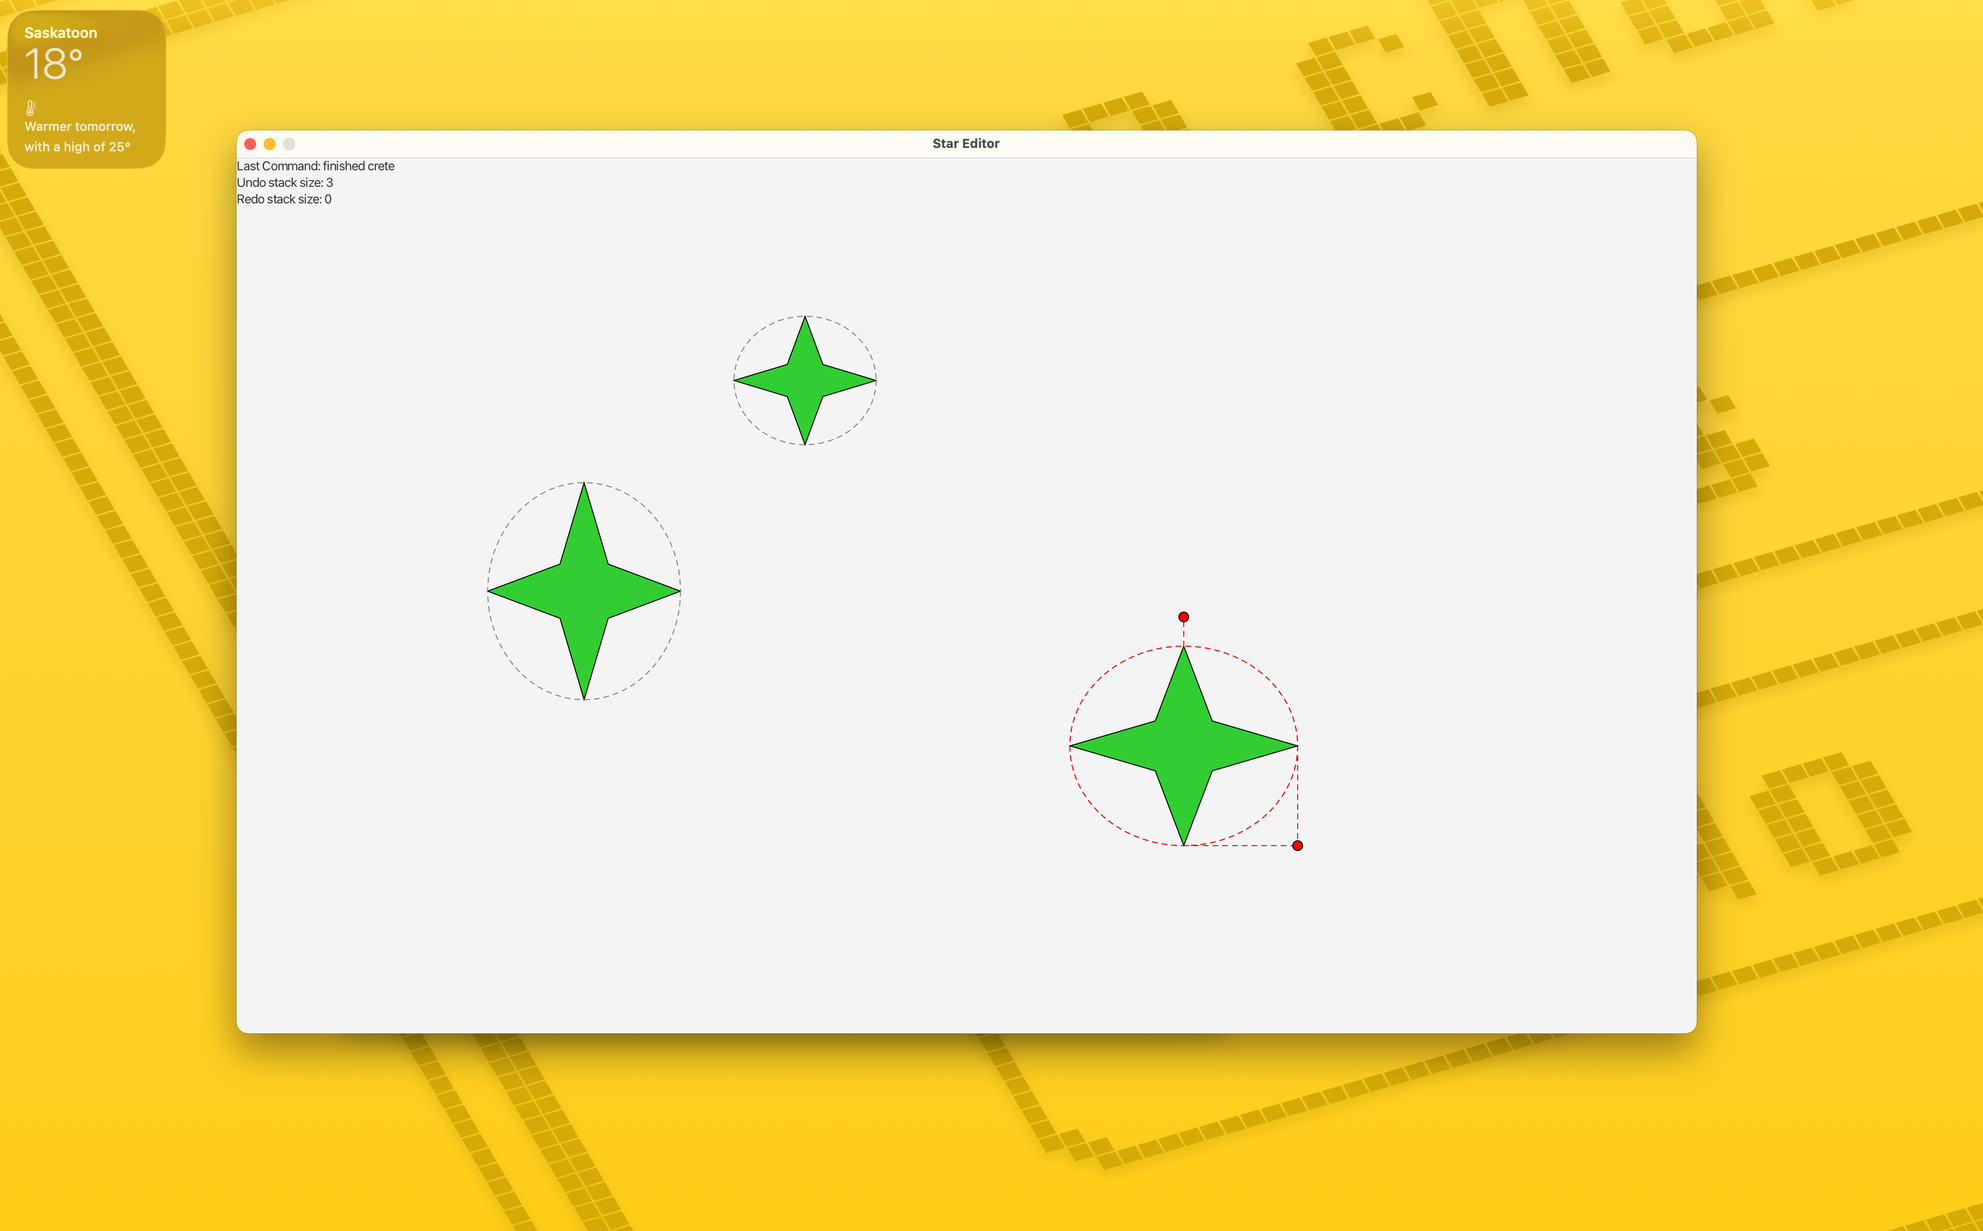
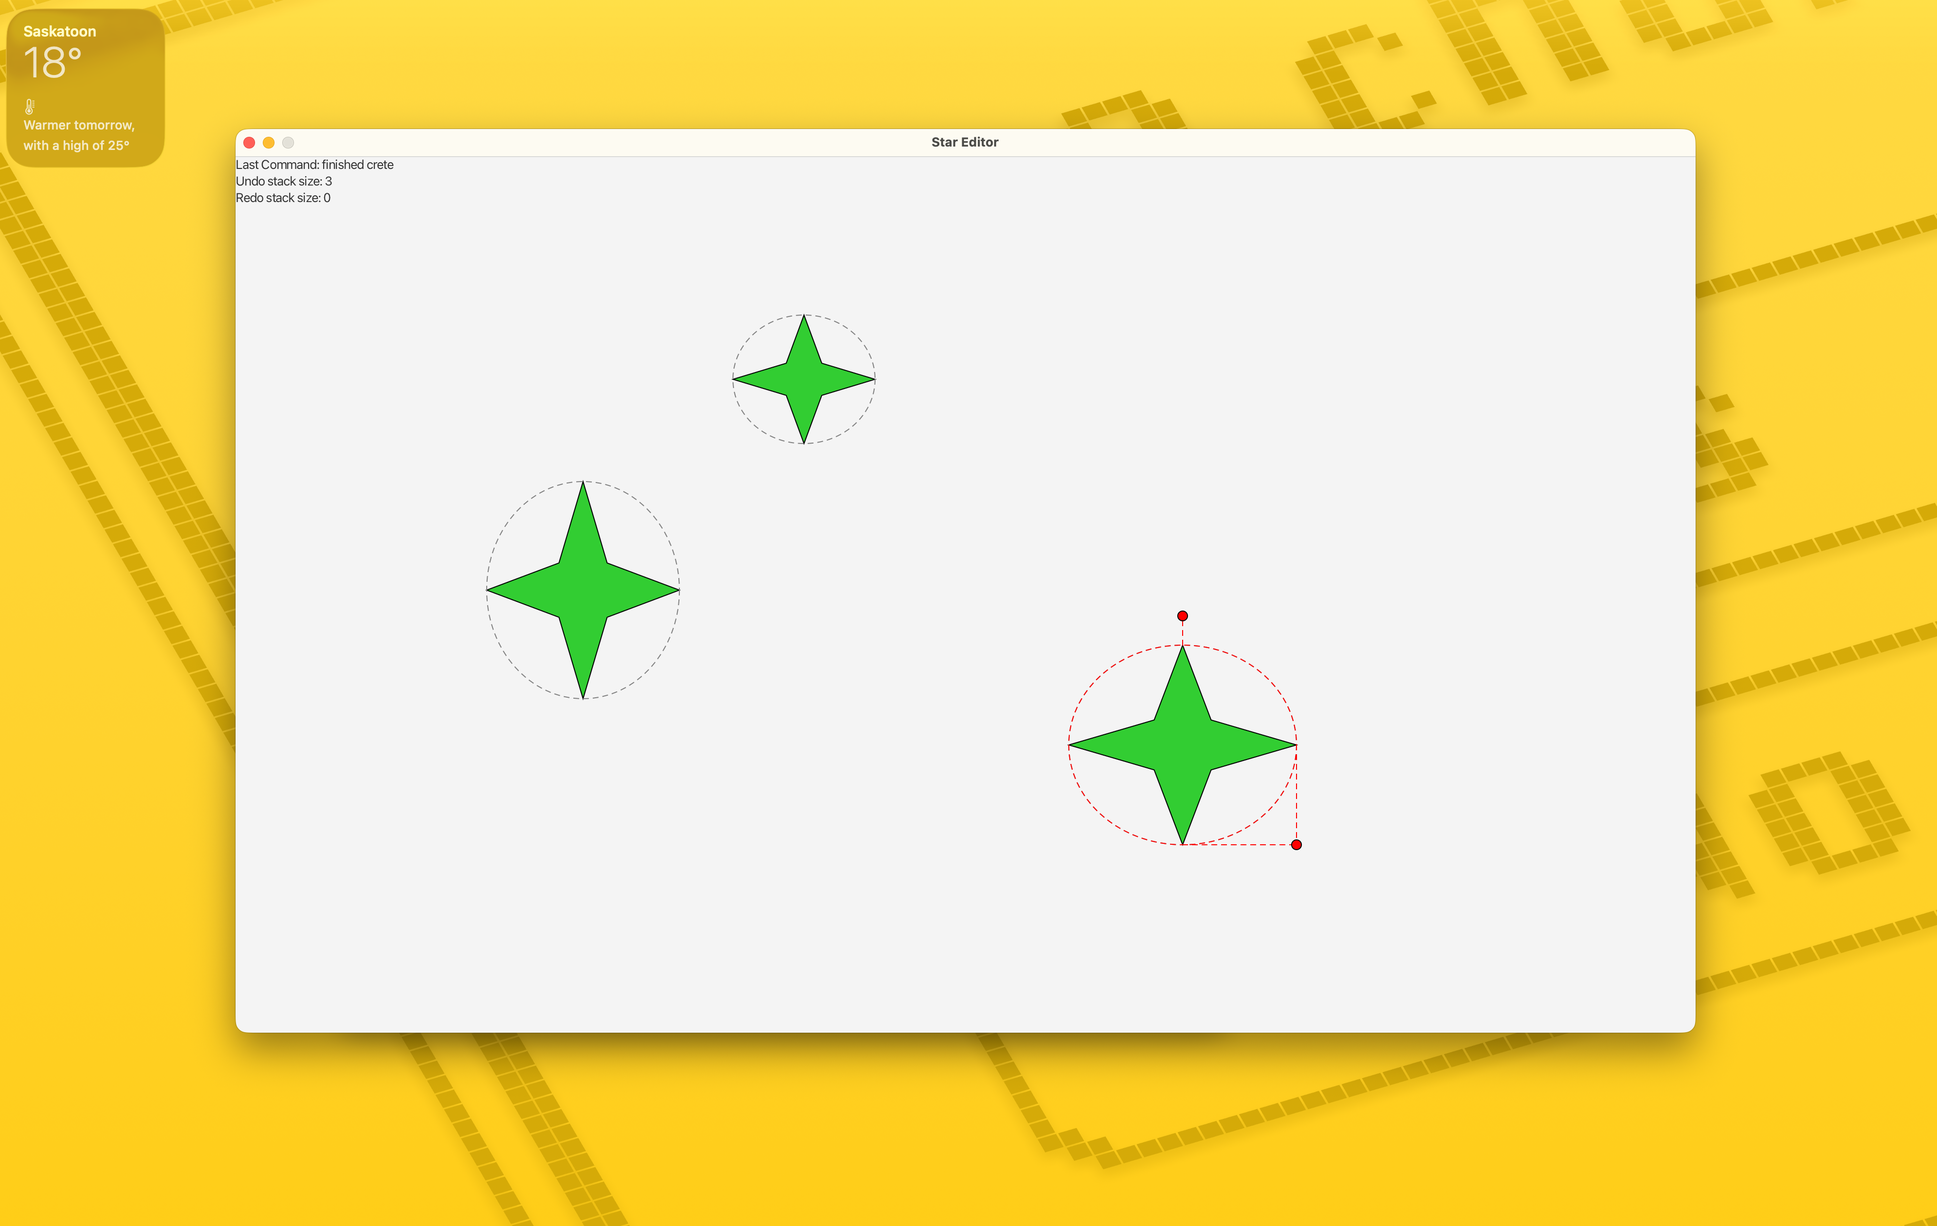
add cmpt353 a4 and qa project, change images and minor code

diff --git a/website/projects/cmpt353_qa.html b/website/projects/cmpt353_qa.html
@@ -32,7 +32,7 @@
     <div id="detail-topbar">
         <div class="container topbar-inner">
             <a id="back-btn" href="../index.html#work-section">← Back to Home</a>
-            <span id="detail-index">03 / 06</span>
+            <span id="detail-index">01 / 06</span>
         </div>
     </div>
 
@@ -42,14 +42,14 @@
             <div class="detail-header">
                 <!--title -->
                 <div>
-                    <p class="eyebrow" id="detail-tag">Interactive Creation, Handles, Multi-Select, Grouping, and Undo/Redo</p>
-                    <h1 id="detail-title">Interactive <em>Star Editor</em></em></h1>
+                    <p class="eyebrow" id="detail-tag">Full-Stack Channel-Based System</p>
+                    <h1 id="detail-title">Channel <em>Q&A Platform</em></h1>
                 </div>
                 <div id="detail-meta">
                     <!-- year -->
                     <div class="meta-row">
                         <span class="meta-label">Year</span>
-                        <span class="meta-value">2025</span>
+                        <span class="meta-value">2026</span>
                     </div>
                     <!-- role -->
                     <div class="meta-row">
@@ -59,17 +59,17 @@
                     <!-- tools -->
                     <div class="meta-row">
                         <span class="meta-label">Tools</span>
-                        <span class="meta-value">2D Transformations, IntelliJ IDEA, JavaFX, JavaFX Canvas, Model-View-Controller (MVC), State Machine Design</span>
+                        <span class="meta-value">Docker, MySQL, Next.js, App Router Architecture, Password Hashing, REST API, Session Authentication, TypeScript</span>
                     </div>
                     <!-- link -->
                     <div class="meta-row">
                         <span class="meta-label">Link</span>
-                        <span class="meta-value"><a href="https://github.com/tas199/cmpt381-2025-a4.git" target="_blank">GitHub ↗</a></span>
+                        <span class="meta-value"><a href="https://github.com/tas199/cmpt353-2025-qa.git" target="_blank">GitHub ↗</a></span>
                     </div>
                 </div>
             </div>
             <!-- cover -->
-            <img id="detail-cover" src="../images/cmpt381_a4/cover.png" alt="cover" />
+            <img id="detail-cover" src="../images/cmpt353_qa/cover.png" alt="cover" />
         </div>
     </section>
 
@@ -80,7 +80,7 @@
                 <div class="content-row">
                     <span class="content-row-label">Description</span>
                     <div class="content-row-text">
-                        <p>This project is an interactive <strong>star editor</strong> built with <strong>JavaFX</strong>, where users can <strong>draw stars by clicking and dragging, then move, resize, and rotate</strong> them using on-screen handles (kind of like dragging and resizing icons or windows on a computer desktop). Users can <strong>select multiple</strong> stars at once (similar to selecting several files with Control-click), <strong>group</strong> them together so they act as one unit, and <strong>ungroup</strong> them again, with everything keeping its position and rotation correctly. The app also supports <strong>undo and redo</strong>, so any action, like creating, moving, resizing, or grouping, can be reversed or replayed with a keypress, just like Ctrl+Z in most everyday apps. Behind the scenes, the project uses a full </strong>Model-View-Controller (MVC)</strong> structure to separate the data, the drawing, and the user interactions, along with <strong>transform-based graphics</strong> to handle positioning and rotation, and a command-based system to make undo/redo possible.</p>
+                        <p>This project is a <strong>channel-based Q&A platform</strong> for programming questions (similar to Stack Overflow or Reddit website), where users can <strong>create channels, post questions, and reply</strong> in threaded discussions. Users can <strong>attach screenshots</strong> to their posts, <strong>vote</strong> on content with thumbs up/down, and <strong>search</strong> across questions, replies, and users. It includes full user accounts with secure login using <strong>hashed passwords</strong> (scrypt), plus an <strong>admin role</strong> that can moderate and remove content when needed. Behind the scenes, it's built with a <strong>Next.js</strong> frontend, a <strong>MySQL</strong> database to store everything, and <strong>Docker</strong> so the whole thing can run consistently with a single setup command.</p>
                     </div>
                 </div>
             </div>
@@ -93,24 +93,40 @@
             <div id="detail-gallery">
                 <div class="gallery">
                     <figure class="gallery-item wide">
-                        <img src="../images/cmpt381_a4/body1.png" alt="body1" />
-                        <figcaption>Object rotation</figcaption>
+                        <img src="../images/cmpt353_qa/body1.png" alt="body1" />
+                        <figcaption>Home page</figcaption>
                     </figure>
                     <figure class="gallery-item">
-                        <img src="../images/cmpt381_a4/body2.png" alt="body2" />
-                        <figcaption>Objects selection</figcaption>
+                        <img src="../images/cmpt353_qa/body2.png" alt="body2" />
+                        <figcaption>Sign-in page</figcaption>
                     </figure>
                     <figure class="gallery-item">
-                        <img src="../images/cmpt381_a4/body3.png" alt="body3" />
-                        <figcaption>Objects grouping</figcaption>
+                        <img src="../images/cmpt353_qa/body3.png" alt="body3" />
+                        <figcaption>Channel lists/creation</figcaption>
                     </figure>
                     <figure class="gallery-item">
-                        <img src="../images/cmpt381_a4/body4.png" alt="body4" />
-                        <figcaption>Object resizing</figcaption>
+                        <img src="../images/cmpt353_qa/body4.png" alt="body4" />
+                        <figcaption>Post topics/creation</figcaption>
                     </figure>
                     <figure class="gallery-item">
-                        <img src="../images/cmpt381_a4/body5.png" alt="body5" />
-                        <figcaption>Undo/redo stack window</figcaption>
+                        <img src="../images/cmpt353_qa/body5.png" alt="body5" />
+                        <figcaption>Topic content/reply</figcaption>
+                    </figure>
+                    <figure class="gallery-item">
+                        <img src="../images/cmpt353_qa/body6.png" alt="body6" />
+                        <figcaption>Search page</figcaption>
+                    </figure>
+                    <figure class="gallery-item">
+                        <img src="../images/cmpt353_qa/body7.png" alt="body7" />
+                        <figcaption>Admin panel</figcaption>
+                    </figure>
+                    <figure class="gallery-item">
+                        <img src="../images/cmpt353_qa/body8.png" alt="body8" />
+                        <figcaption>Post page (admin ver.)</figcaption>
+                    </figure>
+                    <figure class="gallery-item">
+                        <img src="../images/cmpt353_qa/body9.png" alt="body9" />
+                        <figcaption>Content page (admin ver.)</figcaption>
                     </figure>
                 </div>
             </div>
@@ -120,10 +136,10 @@
     <!-- next project-->
     <section id="detail-next">
         <div class="container">
-            <a id="next-link" href="cmpt381_a3.html">
+            <a id="next-link" href="cmpt381_a4.html">
                 <div>
                     <p class="eyebrow">Next Project</p>
-                    <h2 id="next-title">Interactive Binary Tree Editor</h2>
+                    <h2 id="next-title">Interactive Star Editor</h2>
                 </div>
                 <span class="next-arrow">→</span>
             </a>

diff --git a/website/projects/cmpt353_a4.html b/website/projects/cmpt353_a4.html
@@ -32,7 +32,7 @@
     <div id="detail-topbar">
         <div class="container topbar-inner">
             <a id="back-btn" href="../index.html#work-section">← Back to Home</a>
-            <span id="detail-index">04 / 06</span>
+            <span id="detail-index">02 / 06</span>
         </div>
     </div>
 
@@ -42,14 +42,14 @@
             <div class="detail-header">
                 <!--title -->
                 <div>
-                    <p class="eyebrow" id="detail-tag">Interaction and Multiple Views</p>
-                    <h1 id="detail-title">Interactive <em>Binary Tree Editor</em></h1>
+                    <p class="eyebrow" id="detail-tag">Full-Stack Posting System</p>
+                    <h1 id="detail-title">Posting <em>Web App</em></em></h1>
                 </div>
                 <div id="detail-meta">
                     <!-- year -->
                     <div class="meta-row">
                         <span class="meta-label">Year</span>
-                        <span class="meta-value">2025</span>
+                        <span class="meta-value">2026</span>
                     </div>
                     <!-- role -->
                     <div class="meta-row">
@@ -59,17 +59,17 @@
                     <!-- tools -->
                     <div class="meta-row">
                         <span class="meta-label">Tools</span>
-                        <span class="meta-value">Canvas, IntelliJ IDEA, JavaFX, JavaFX Canvas, Model-View-Controller (MVC), State Machine Design</span>
+                        <span class="meta-value">Docker, Express, JavaScript, MySQL, Node.js, React, REST API</span>
                     </div>
                     <!-- link -->
                     <div class="meta-row">
                         <span class="meta-label">Link</span>
-                        <span class="meta-value"><a href="https://github.com/tas199/cmpt381-2025-a3.git" target="_blank">GitHub ↗</a></span>
+                        <span class="meta-value"><a href="https://github.com/tas199/cmpt353-2025-a4.git" target="_blank">GitHub ↗</a></span>
                     </div>
                 </div>
             </div>
             <!-- cover -->
-            <img id="detail-cover" src="../images/cmpt381_a3/cover.png" alt="cover" />
+            <img id="detail-cover" src="../images/cmpt353_a4/cover.png" alt="cover" />
         </div>
     </section>
 
@@ -80,7 +80,7 @@
                 <div class="content-row">
                     <span class="content-row-label">Description</span>
                     <div class="content-row-text">
-                        <p>This project is an interactive <strong>binary tree</strong> editor built with JavaFX, made to practice <strong>Model-View-Controller (MVC)</strong>, a way of organizing code so the data, the visuals, and the user input are all kept separate and easier to manage. The user can click to <strong>add nodes</strong>, hold Shift and drag to <strong>connect</strong> them as parent and child, <strong>move</strong> branches around, <strong>select or delete</strong> parts, and see everything update right away. Since the tree can get bigger than the screen, there's a small <strong>overview map</strong> that shows the whole tree at once. There's also a <strong>side panel</strong> where the user can view or edit details about the node they picked, like its name, depth, and number of children, along with a few basic stats about the tree overall. Overall, it works a lot like the drag-and-drop editors you'd see in real diagramming tools, just built from scratch.</p>
+                        <p>This project is a small <strong>multi-page web app</strong> where users can create posts and view a list of them, similar to a simple blog or forum, built with a <strong>React</strong> frontend and a <strong>Node.js/Express</strong> backend. Users can navigate between a landing page, a page to view all posts, and a page to create a new one. All posts are saved in a <strong>MySQL database</strong>, so they don't disappear even if the app restarts. The whole system is packaged with <strong>Docker Compose</strong>, meaning the frontend, backend, and database all run together in containers with a single command.</p>
                     </div>
                 </div>
             </div>
@@ -92,17 +92,21 @@
         <div class="container">
             <div id="detail-gallery">
                 <div class="gallery">
-                    <figure class="gallery-item wide">
-                        <img src="../images/cmpt381_a3/body1.png" alt="body1" />
-                        <figcaption>Linking node tree</figcaption>
+                    <figure class="gallery-item">
+                        <img src="../images/cmpt353_a4/body1.png" alt="body2" />
+                        <figcaption>Home page</figcaption>
                     </figure>
                     <figure class="gallery-item">
-                        <img src="../images/cmpt381_a3/body2.png" alt="body2" />
-                        <figcaption>Overview map</figcaption>
+                        <img src="../images/cmpt353_a4/body2.png" alt="body3" />
+                        <figcaption>Creation page</figcaption>
                     </figure>
                     <figure class="gallery-item">
-                        <img src="../images/cmpt381_a3/body3.png" alt="body3" />
-                        <figcaption>Side panel (A node detail)</figcaption>
+                        <img src="../images/cmpt353_a4/body3.png" alt="body4" />
+                        <figcaption>Posts page</figcaption>
+                    </figure>
+                    <figure class="gallery-item">
+                        <img src="../images/cmpt353_a4/body4.png" alt="body5" />
+                        <figcaption>Fault detection</figcaption>
                     </figure>
                 </div>
             </div>
@@ -112,10 +116,10 @@
     <!-- next project-->
     <section id="detail-next">
         <div class="container">
-            <a id="next-link" href="cmpt381_a2.html">
+            <a id="next-link" href="cmpt381_a4.html">
                 <div>
                     <p class="eyebrow">Next Project</p>
-                    <h2 id="next-title">Countdown Timer</h2>
+                    <h2 id="next-title">Interactive Star Editor</h2>
                 </div>
                 <span class="next-arrow">→</span>
             </a>

diff --git a/website/index.html b/website/index.html
@@ -72,7 +72,7 @@
                             I'm a graduate of the University of Saskatchewan with a <strong>B.Sc. in Computer Science</strong>, focusing on <strong>graphical user interfaces (UI)</strong> and <strong>full-stack web development</strong>, plus a background in Electrical Engineering (B.E.).
                         </p>
                         <p>
-                            I have experience developing desktop apps in <strong>JavaFX</strong> and <strong>Java Swing</strong>, building custom UI components and interactive graphics using <strong>MVC architecture</strong>, as well as working on <strong>full-stack web projects</strong> using tools like <strong>React, Node.js, Docker, Express,</strong> and <strong>databases</strong> such as <strong>MySQL<strong>.
+                            My hands-on experience spans building desktop applications in <strong>JavaFX</strong> and <strong>Java Swing</strong>, including custom UI components and interactive graphics using <strong>MVC architecture</strong>, as well as delivering full-stack web projects with <strong>React</strong>, <strong>Node.js, Express, Docker,</strong> and <strong>MySQL</strong>.
                         </p>
                     </div>
 
@@ -87,6 +87,32 @@
                 <p class="eyebrow">Recent Work</p>
 
                 <div id="project-list">
+
+                    <!-- project cmpt353_qa -->
+                    <a class="project-row" href="projects/cmpt353_qa.html">
+                        <div class="project-thumb">
+                            <img src="images/cmpt353_qa/cover.png" alt="cmpt353_qa" />
+                        </div>
+                        <div class="project-info">
+                            <p class="project-tag">Full-Stack Channel-Based System</p>
+                            <h3 class="project-title">Channel Q&A Platform</h3>
+                            <p class="project-desc">A Next.js and MySQL built channel-based Q&A platform with channel and post creation, threaded replies, voting, file uploads, hashed-password authentication, and admin moderation.</p>
+                        </div>
+                        <span class="project-arrow">↗ &nbsp</span>
+                    </a>
+
+                    <!-- project cmpt353_a4 -->
+                    <a class="project-row" href="projects/cmpt353_a4.html">
+                        <div class="project-thumb">
+                            <img src="images/cmpt353_a4/cover.png" alt="cmpt353_a4" />
+                        </div>
+                        <div class="project-info">
+                            <p class="project-tag">Full-Stack Posting System</p>
+                            <h3 class="project-title">Posting Web App</h3>
+                            <p class="project-desc">A full-stack web app built with React and Node.js, using a MySQL database, where users can create and view posts.</p>
+                        </div>
+                        <span class="project-arrow">↗ &nbsp</span>
+                    </a>
 
                     <!-- project cmpt381_a4 -->
                     <a class="project-row" href="projects/cmpt381_a4.html">
@@ -107,7 +133,7 @@
                             <img src="images/cmpt381_a3/cover.png" alt="cmpt381_a3" />
                         </div>
                         <div class="project-info">
-                            <p class="project-tag">MVC, Interaction, and Multiple Views</p>
+                            <p class="project-tag">Interaction and Multiple Views</p>
                             <h3 class="project-title">Interactive Binary Tree Editor</h3>
                             <p class="project-desc">An interactive JavaFX binary tree editor built using a full Model-View-Controller (MVC) architecture, featuring node creation, drag-and-drop editing, an overview mini-map with panning, and a live properties panel for real-time tree editing.</p>
                         </div>

diff --git a/website/projects/cmpt381_a2.html b/website/projects/cmpt381_a2.html
@@ -112,10 +112,10 @@
     <!-- next project-->
     <section id="detail-next">
         <div class="container">
-            <a id="next-link" href="cmpt381_a3.html">
+            <a id="next-link" href="cmpt270_a5.html">
                 <div>
                     <p class="eyebrow">Next Project</p>
-                    <h2 id="next-title">Interactive Binary Tree Editor</h2>
+                    <h2 id="next-title">Multiple-Choice Quiz System</h2>
                 </div>
                 <span class="next-arrow">→</span>
             </a>

diff --git a/website/projects/cmpt270_a5.html b/website/projects/cmpt270_a5.html
@@ -63,7 +63,7 @@
                     <!-- link -->
                     <div class="meta-row">
                         <span class="meta-label">Link</span>
-                        <span class="meta-value"><a href="https://github.com/tas199/cmpt270-2024/tree/A5/Assignment5" target="_blank">GitHub ↗</a></span>
+                        <span class="meta-value"><a href="https://github.com/tas199/cmpt270-2024-a5.git" target="_blank">GitHub ↗</a></span>
                     </div>
                 </div>
             </div>
